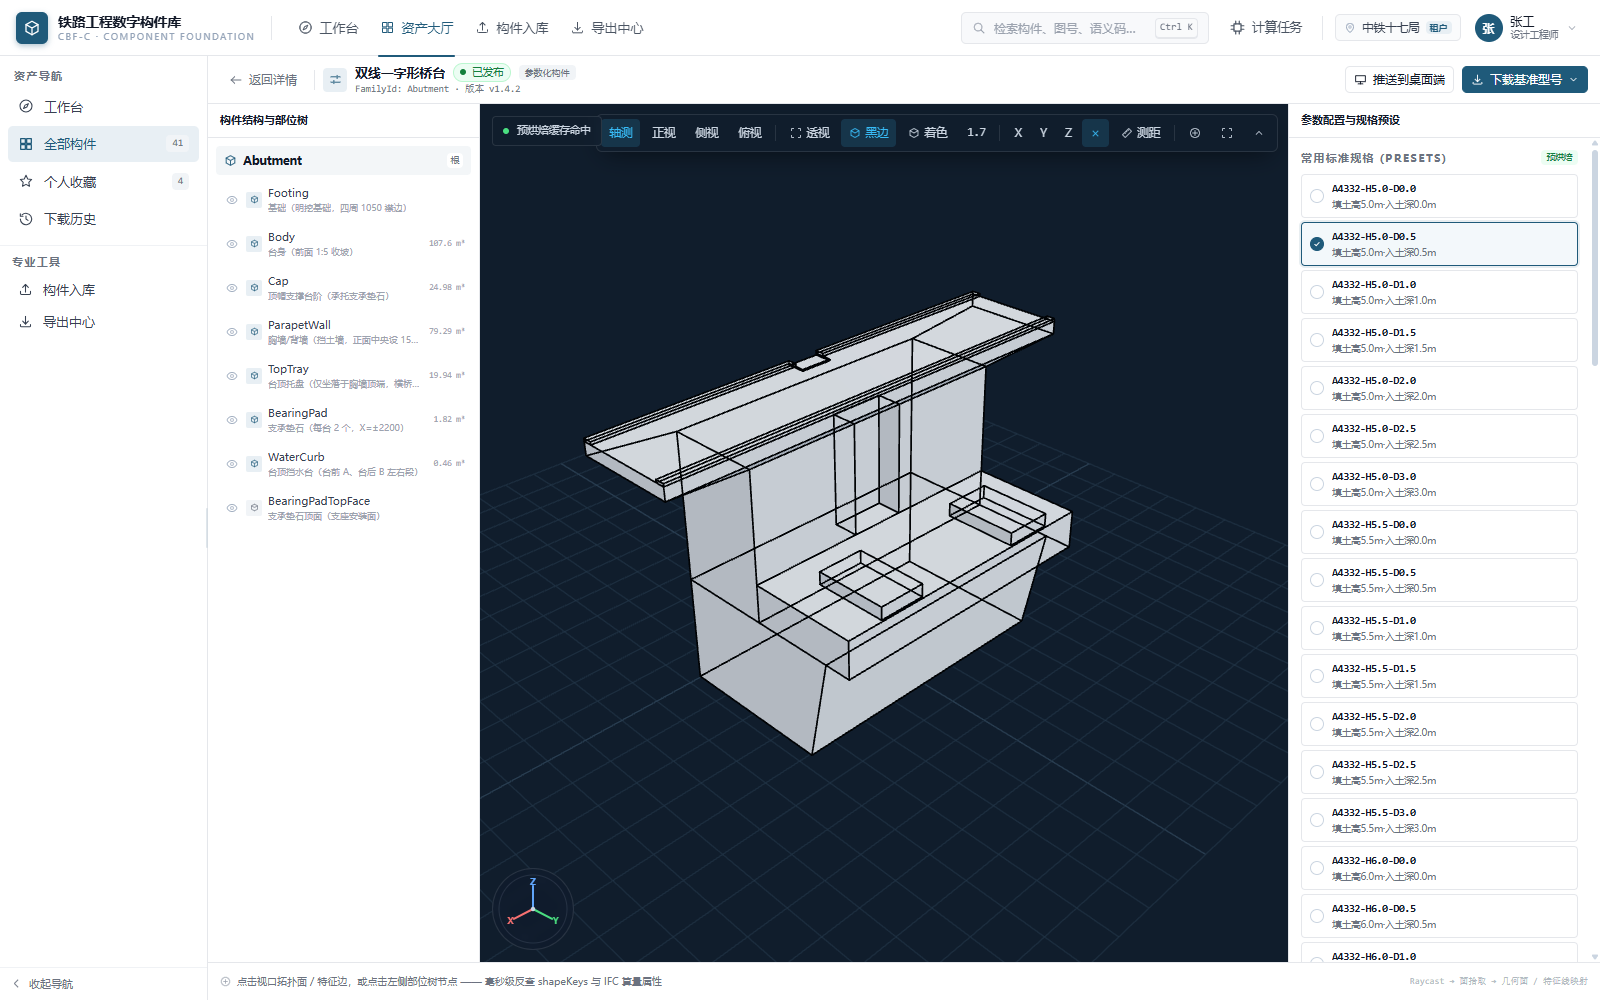
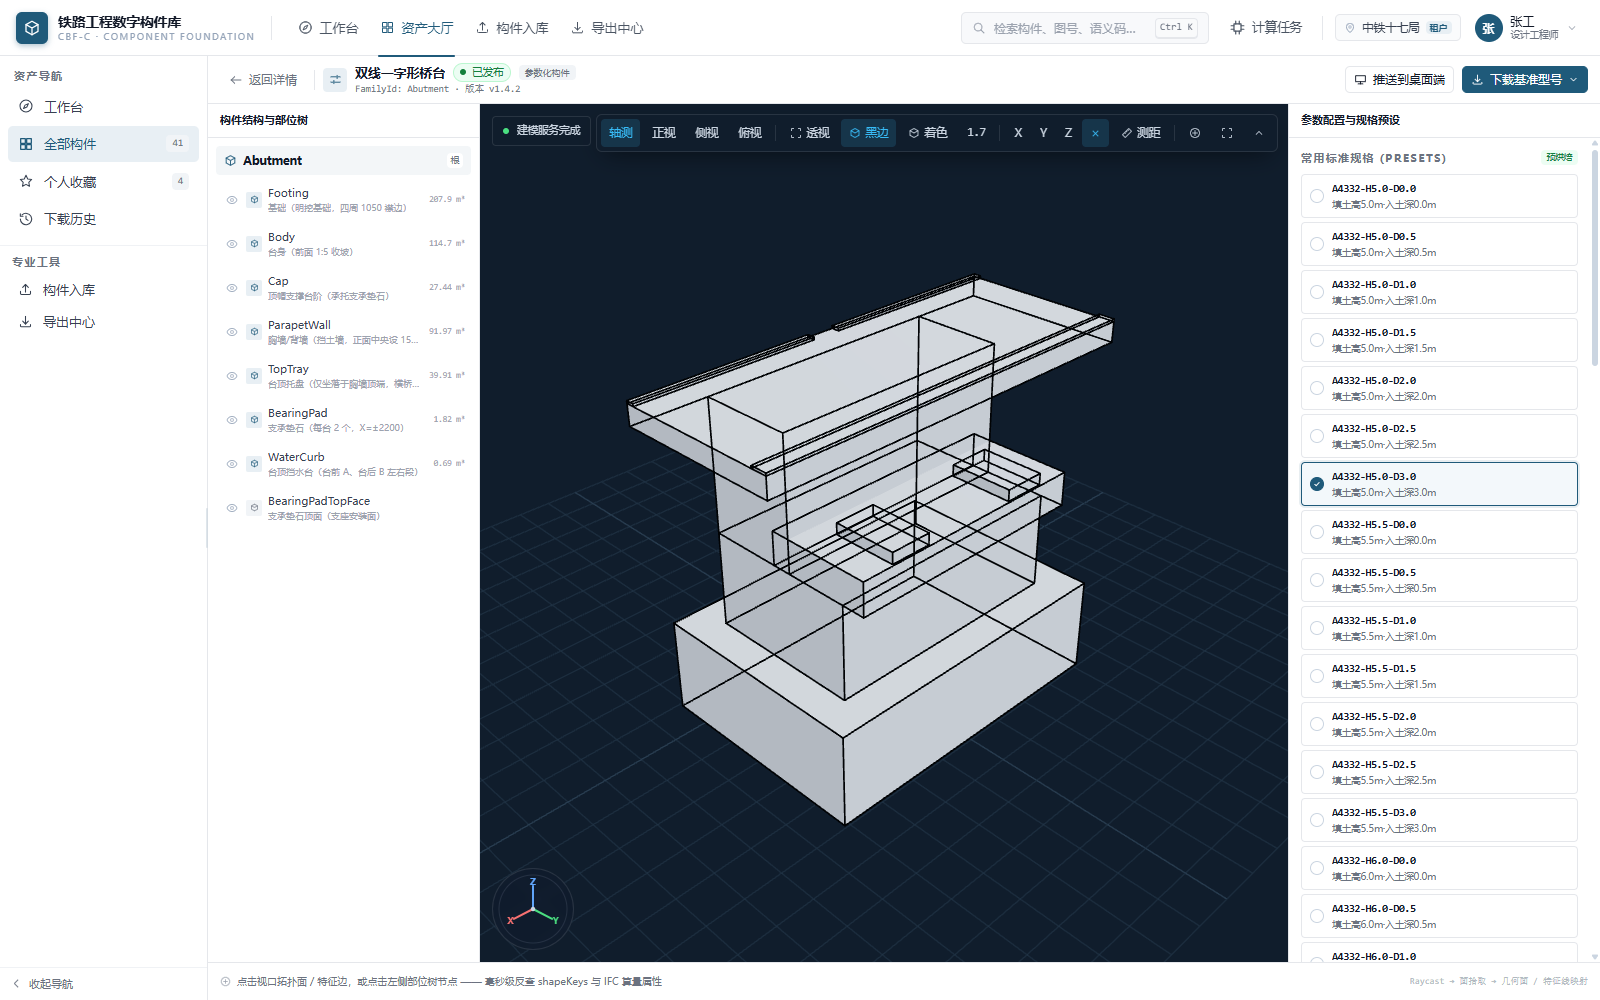
fix(cbfc-web): rebuild non-prebaked abutment presets

diff --git a/cbfc-web/server/geometry.ts b/cbfc-web/server/geometry.ts
@@ -729,6 +729,59 @@ function earClip(points: [number, number][]): [number, number, number][] {
   return triangles;
 }
 
+/**
+ * Lightweight fallback for the abutment when CadQuery is unavailable.
+ * It follows the CQ control levels and keeps the same named-part slots; the
+ * production path still prefers server/cq/abutment_worker.py.
+ */
+export function buildAbutmentFallbackMesh(params: Record<string, number>): MeshData {
+  const h1 = (params.EmbedDepth ?? 0) * 1000;
+  const o = (params.BodyLength ?? 4.3) * 1000;
+  const h2 = Math.max(0, params.BodyHeight ?? 3) * 1000;
+  const bodyWidth = params.BodyWidth ?? 7800;
+  const topWidth = params.TopWidth ?? 12600;
+  const zBody = h1 + h2;
+  const zCap = zBody + 1050;
+  const zTop = zCap + 3631;
+  const xBody = bodyWidth / 2;
+  const xTop = topWidth / 2;
+  const b = new MeshBuilder();
+  const shapeByFace = new Map<number, number>();
+  let faceCursor = 0;
+
+  const box = (slot: number, x0: number, x1: number, y0: number, y1: number, z0: number, z1: number) => {
+    if (x1 - x0 <= 0 || y1 - y0 <= 0 || z1 - z0 <= 0) return;
+    const ids = Array.from({ length: 6 }, () => faceCursor++);
+    addBoxAt(b, (x0 + x1) / 2, (y0 + y1) / 2, x1 - x0, y1 - y0, z0, z1, ids);
+    for (const id of ids) shapeByFace.set(id, slot);
+  };
+
+  // Footing only exists when an embedded depth is requested.
+  if (h1 > 0) box(0, -xBody - 1050, xBody + 1050, -1050, o + 1050, 0, h1);
+  box(1, -xBody, xBody, 0, o, h1, Math.max(zBody, h1 + 1));
+  box(2, -xBody, xBody, Math.max(0, o - 2600), o + 750, zBody, zCap);
+
+  // Parapet / top tray / bearing pads / water curbs.
+  const parapetBack = 0;
+  const parapetFront = Math.max(800, o - 2000);
+  box(3, -xBody, xBody, parapetBack, parapetFront, zBody, zTop - 615);
+  box(4, -xTop, xTop, 0, o + 250, zTop - 615, zTop);
+  for (const sign of [-1, 1]) {
+    const xc = sign * 2200;
+    box(5, xc - 650, xc + 650, Math.max(0, o - 1300), o + 700, zCap, zCap + 350);
+  }
+  box(6, -xTop, xTop, Math.max(0, o - 250), o + 250, zTop, zTop + 75);
+  box(6, -xTop, -445, 0, 250, zTop, zTop + 75);
+  box(6, 445, xTop, 0, 250, zTop, zTop + 75);
+
+  const mesh = b.finalize();
+  mesh.faceGroups = mesh.faceGroups.map((group) => ({
+    ...group,
+    shapeIndex: shapeByFace.get(group.faceId) ?? 0,
+  }));
+  return mesh;
+}
+
 export function buildMesh(kind: GeometryKind, params: Record<string, number>): MeshData {
   switch (kind) {
     case 'pier':

diff --git a/cbfc-web/server/api.ts b/cbfc-web/server/api.ts
@@ -22,7 +22,7 @@ import type {
   UserSession,
 } from '../shared/types';
 import { buildCacheKeyPayload, computeCacheKey, sha256Hex } from '../shared/deterministic';
-import { buildMesh, type MeshData } from './geometry';
+import { buildAbutmentFallbackMesh, buildMesh, type MeshData } from './geometry';
 import { generateAbutmentMesh } from './cq';
 import { renderProjectionSvg, type ProjectionView } from './projection';
 import {
@@ -316,6 +316,7 @@ function effectiveParams(
     }
   }
   const isPreset = component.parameters.presets.some((p) =>
+    p.isPrebaked &&
     component.recipeInputs.every((key) => {
       const a = params[key];
       const b = p.params[key];
@@ -1274,7 +1275,7 @@ export async function handleApi(req: IncomingMessage, res: ServerResponse, pathn
           ) as Record<string, number>);
       if (component.familyId === 'Abutment') {
         const cqMesh = await generateAbutmentMesh(params as Record<string, number | string | boolean>);
-        if (cqMesh) mesh = cqMesh;
+        mesh = cqMesh ?? buildAbutmentFallbackMesh(params as Record<string, number>);
       }
       const elapsedMs = isPreset ? 68 + (cacheKey.charCodeAt(0) % 40) : 900;
 
@@ -1296,18 +1297,26 @@ export async function handleApi(req: IncomingMessage, res: ServerResponse, pathn
         return true;
       }
 
-      if (isPreset) {
+      if (isPreset || component.familyId === 'Abutment') {
         const jhb = makeJhb(component, params, cacheKey, mesh, legacy);
         state.cache.set(cacheKey, jhb);
         binary(res, 200, new Uint8Array(jhb.buffer), 'application/x-cbf-jhb', undefined, {
           'X-Cache-Key': cacheKey,
-          'X-Cache-Hit': 'true',
+          'X-Cache-Hit': isPreset ? 'true' : 'false',
           'X-Elapsed-Ms': String(elapsedMs),
           'X-Json-Len': String(jhb.jsonLen),
           'X-Payload-Start': String(jhb.payloadStart),
           ...(legacy ? { 'X-Legacy-Frame': 'unaligned' } : {}),
         });
-        pushAudit(state, user!.name, 'evaluate', component.familyId, `预烘焙命中 ${cacheKey.slice(0, 12)}…`);
+        pushAudit(
+          state,
+          user!.name,
+          'evaluate',
+          component.familyId,
+          component.familyId === 'Abutment'
+            ? `建模服务生成 ${cacheKey.slice(0, 12)}…`
+            : `预烘焙命中 ${cacheKey.slice(0, 12)}…`,
+        );
         return true;
       }
 

diff --git a/cbfc-web/server/seed.ts b/cbfc-web/server/seed.ts
@@ -47,6 +47,7 @@ type PresetSpec = {
   label: string;
   overrides?: Record<string, number | string>;
   volumeM3?: number;
+  prebaked?: boolean;
 };
 
 const ABUTMENT_PRESETS = JSON.parse(
@@ -559,7 +560,7 @@ const SEEDS: ComponentSeed[] = [
     dims: { LengthX: 12600, WidthY: 5650, HeightZ: 7756, Taper: 0 },
     tags: ['桥台', '双线一字形', '标准件'],
     description: '双线一字形桥台，含台顶、台身、胸墙及支承垫石等命名部位。',
-    presets: ABUTMENT_PRESETS,
+    presets: ABUTMENT_PRESETS.map((preset) => ({ ...preset, prebaked: false })),
     meshFile: 'StraightAbutment.mesh.json',
     shapes: {
       Footing: { label: '基础（明挖基础，四周 1050 襟边）', code: 'Bridge.Abutment.Footing', geomType: 'solid' },
@@ -1401,7 +1402,7 @@ export async function createComponents(): Promise<InternalComponent[]> {
       label: spec.label,
       drawingCode: `${seed.drawingCode}-${spec.modelNumber.split('-').pop()}`,
       params: presetParams[spec.modelNumber],
-      isPrebaked: true,
+      isPrebaked: spec.prebaked ?? true,
       cacheKey: presetCacheKeys[spec.modelNumber],
     }));
     const modelNumbers = presets.map((p) => p.modelNumber);

diff --git a/cbfc-web/src/views/ConfiguratorView.vue b/cbfc-web/src/views/ConfiguratorView.vue
@@ -113,7 +113,7 @@ const statusLabel = computed(() => {
     case 'detached_computing':
       return '后台脱机计算';
     case 'succeeded':
-      return meta.value?.cacheHit ? '预烘焙缓存命中' : '求解完成';
+      return detail.value?.familyId === 'Abutment' ? '建模服务完成' : meta.value?.cacheHit ? '预烘焙缓存命中' : '求解完成';
     case 'failed':
       return '求解失败';
     case 'aborted':
@@ -508,7 +508,7 @@ onBeforeUnmount(() => {
           <div class="border-b border-[#F0F2F5] p-3">
             <div class="flex items-center justify-between">
               <p class="eyebrow">常用标准规格 (Presets)</p>
-              <span class="rounded bg-[#ECFDF3] px-1.5 py-[1px] text-[8.5px] text-success">预烘焙</span>
+              <span class="rounded bg-[#ECFDF3] px-1.5 py-[1px] text-[8.5px] text-success">{{ detail?.familyId === 'Abutment' ? '按需建模' : '预烘焙' }}</span>
             </div>
             <div class="mt-2 space-y-1">
               <button

diff --git a/cbfc-web/server/cq/README.md b/cbfc-web/server/cq/README.md
@@ -25,6 +25,8 @@ and returns a JSON mesh. `server/cq.ts` converts that payload into the same JHB
 frame used by the rest of the viewer.
 
 If `CQ_PYTHON` is absent or CadQuery cannot be imported, the API falls back to
-the packaged `StraightAbutment.mesh.json` preview so the application remains
-usable. In that fallback mode parameter fields can be viewed and presets can be
-selected, but arbitrary parameter changes do not rebuild geometry.
+the lightweight control-level mesh generator in `server/geometry.ts`
+(`buildAbutmentFallbackMesh`). This keeps parameter/preset changes visible in
+the demo and clearly marks the component as a modeling-service component; the
+fallback is not an exact B-Rep and should be replaced by the CQ worker for
+production geometry.
